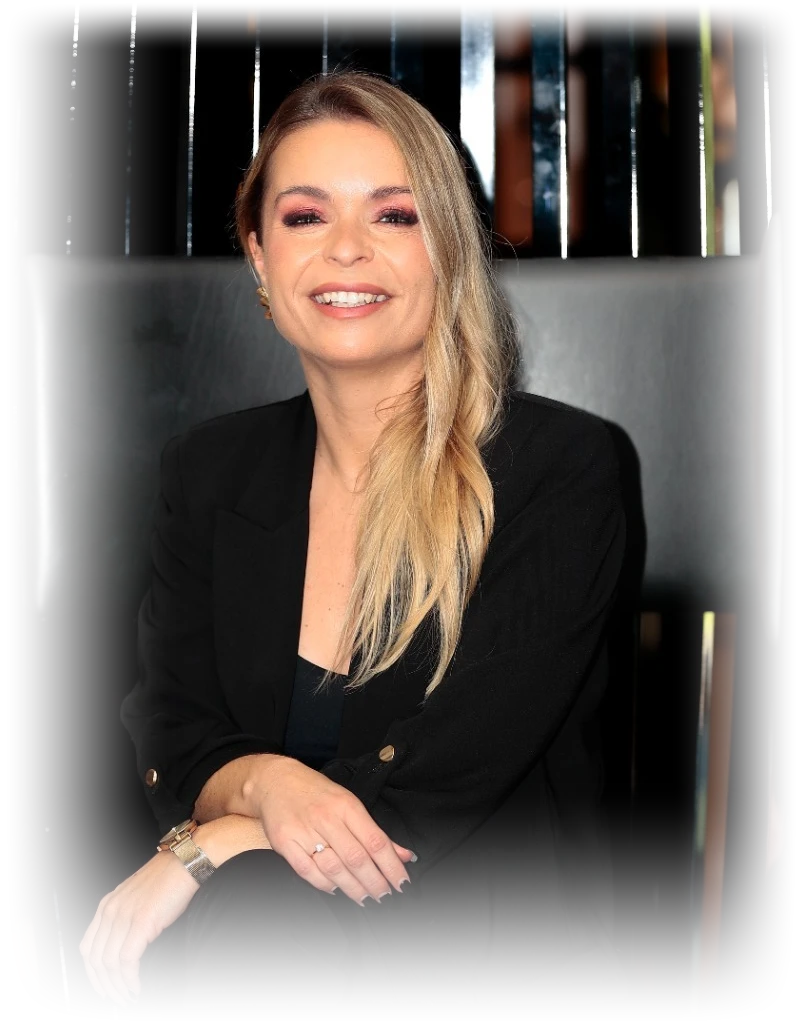
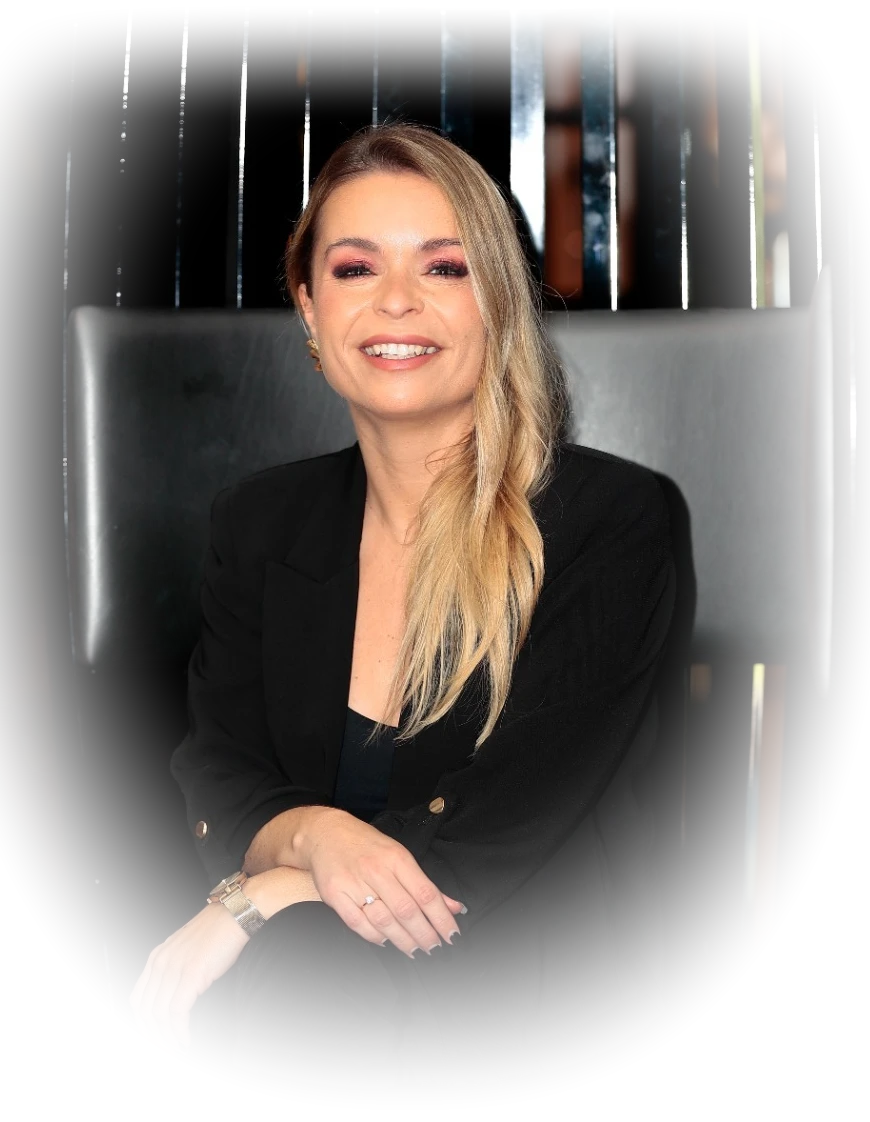
Foto da Mafalda com máscara oval suave (sem bordas marcadas no telemóvel)
Claude-Session: https://claude.ai/code/session_01LfWUhmq79ipDgo2BMr1y1V

diff --git a/index.html b/index.html
@@ -325,7 +325,7 @@ fieldset.campo{border:0}
       </div>
       <div class="hero__visual">
         <div class="hero__mafalda rv" style="--i:1">
-          <img src="assets/img/mafalda-almeida.webp" alt="Mafalda Almeida" width="800" height="1030" fetchpriority="high">
+          <img src="assets/img/mafalda-almeida.webp" alt="Mafalda Almeida" width="870" height="1122" fetchpriority="high">
         </div>
         <div class="hero__circulos">
           <figure class="rv" style="--i:2"><img src="assets/img/isabel-neves.webp" alt="Isabel Neves" width="348" height="348"><figcaption>Isabel Neves</figcaption></figure>
